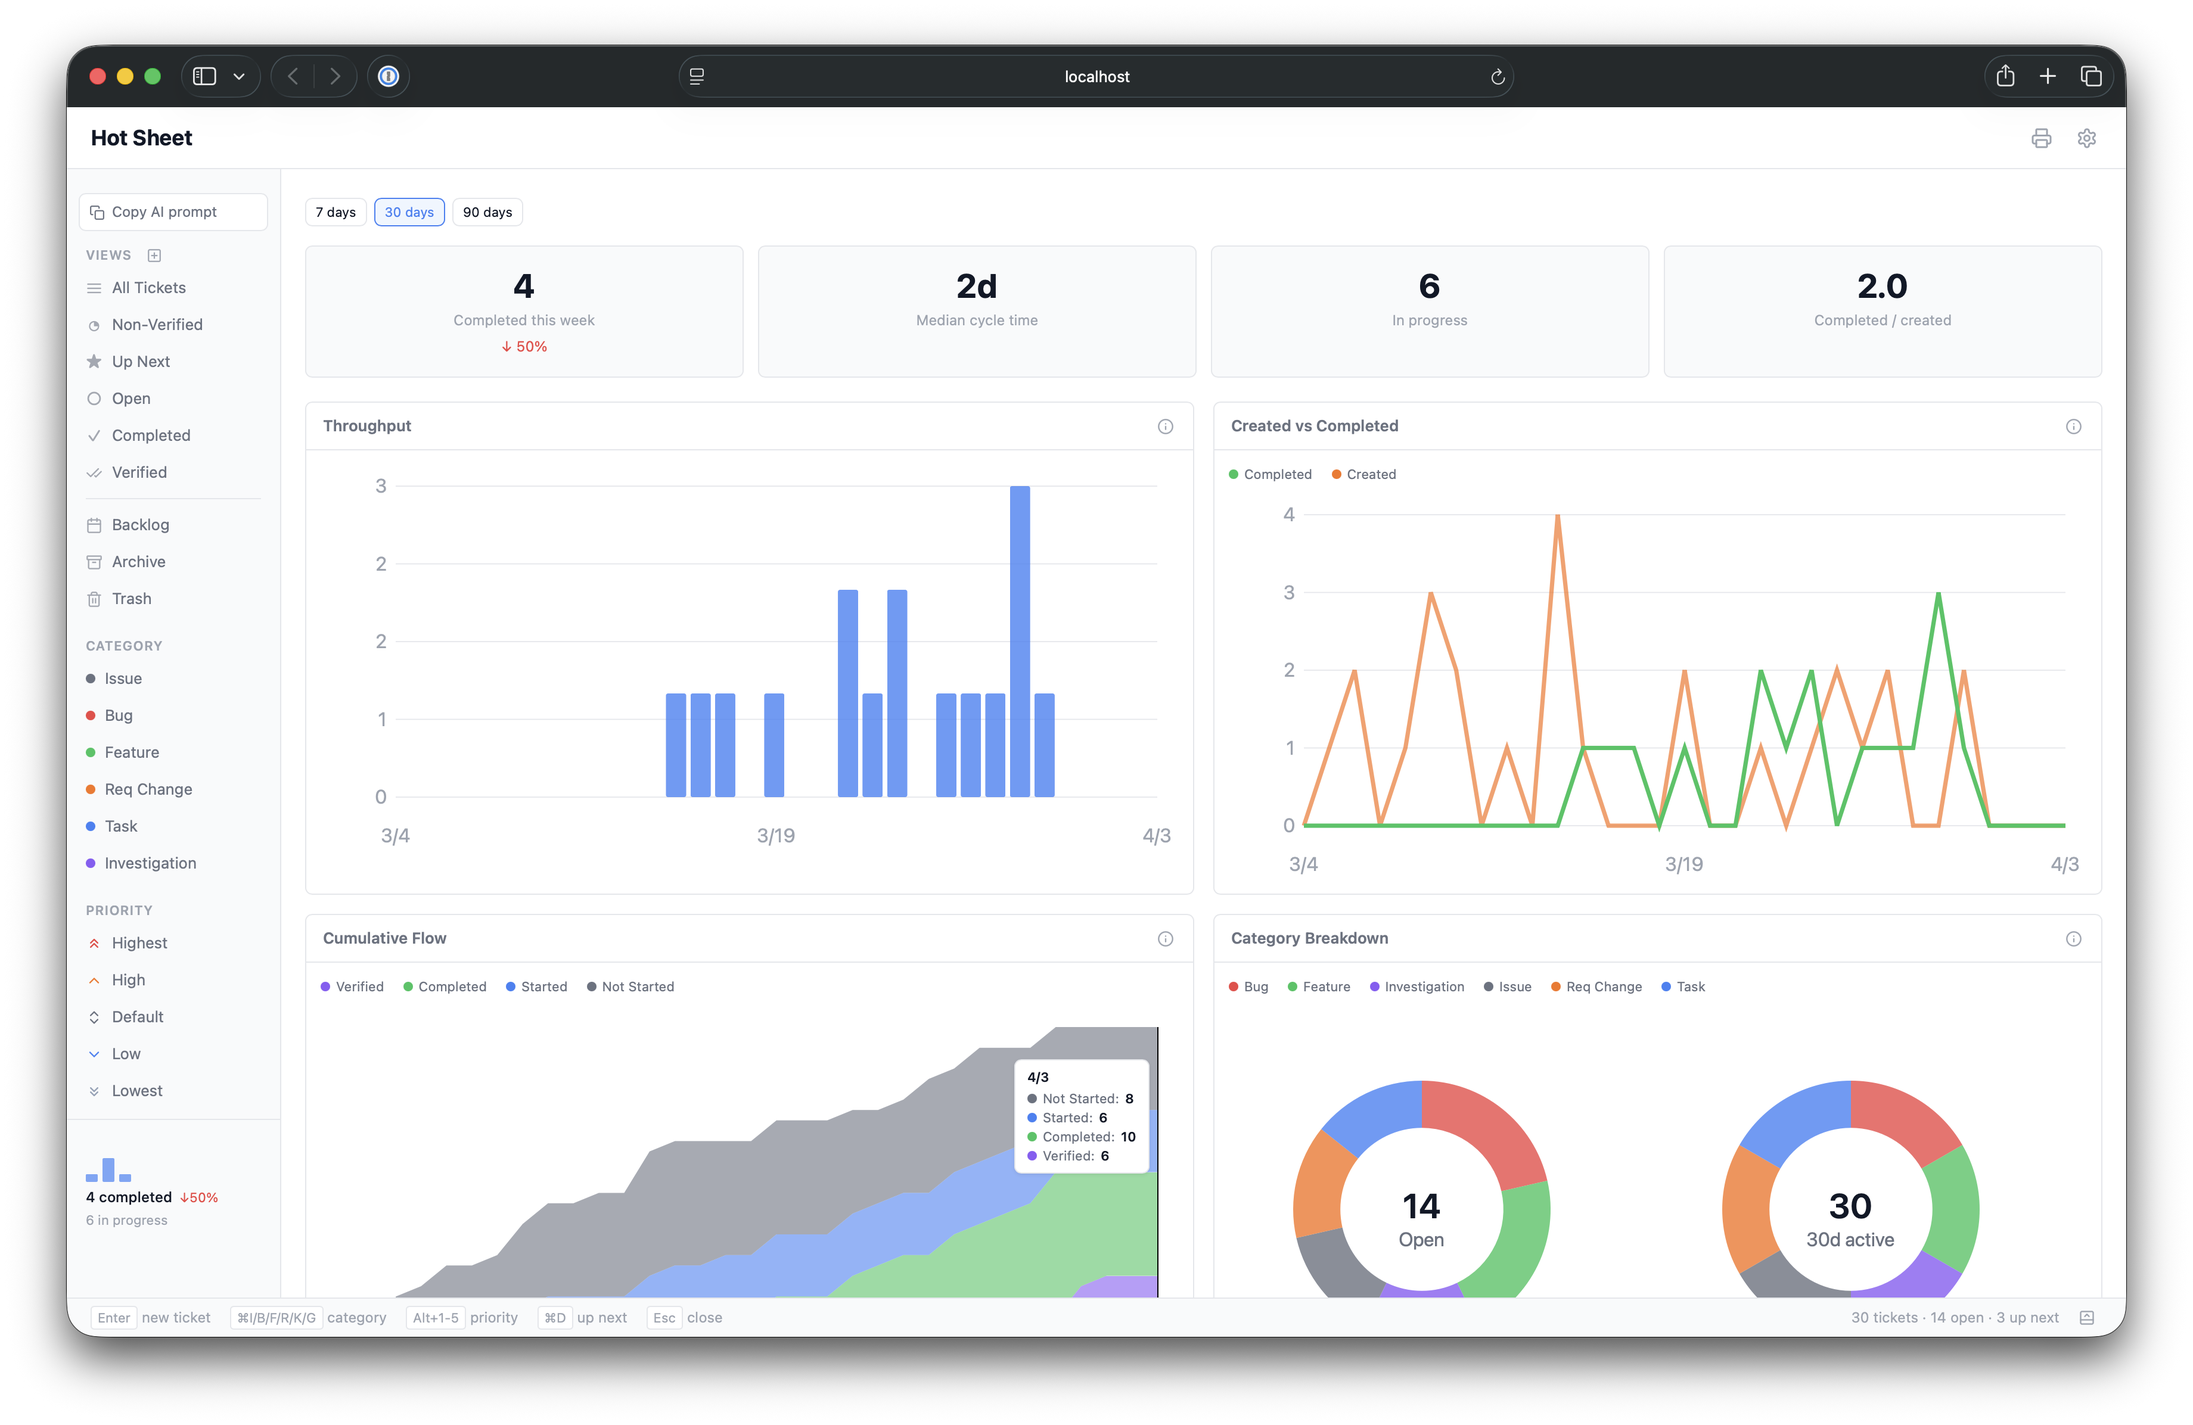
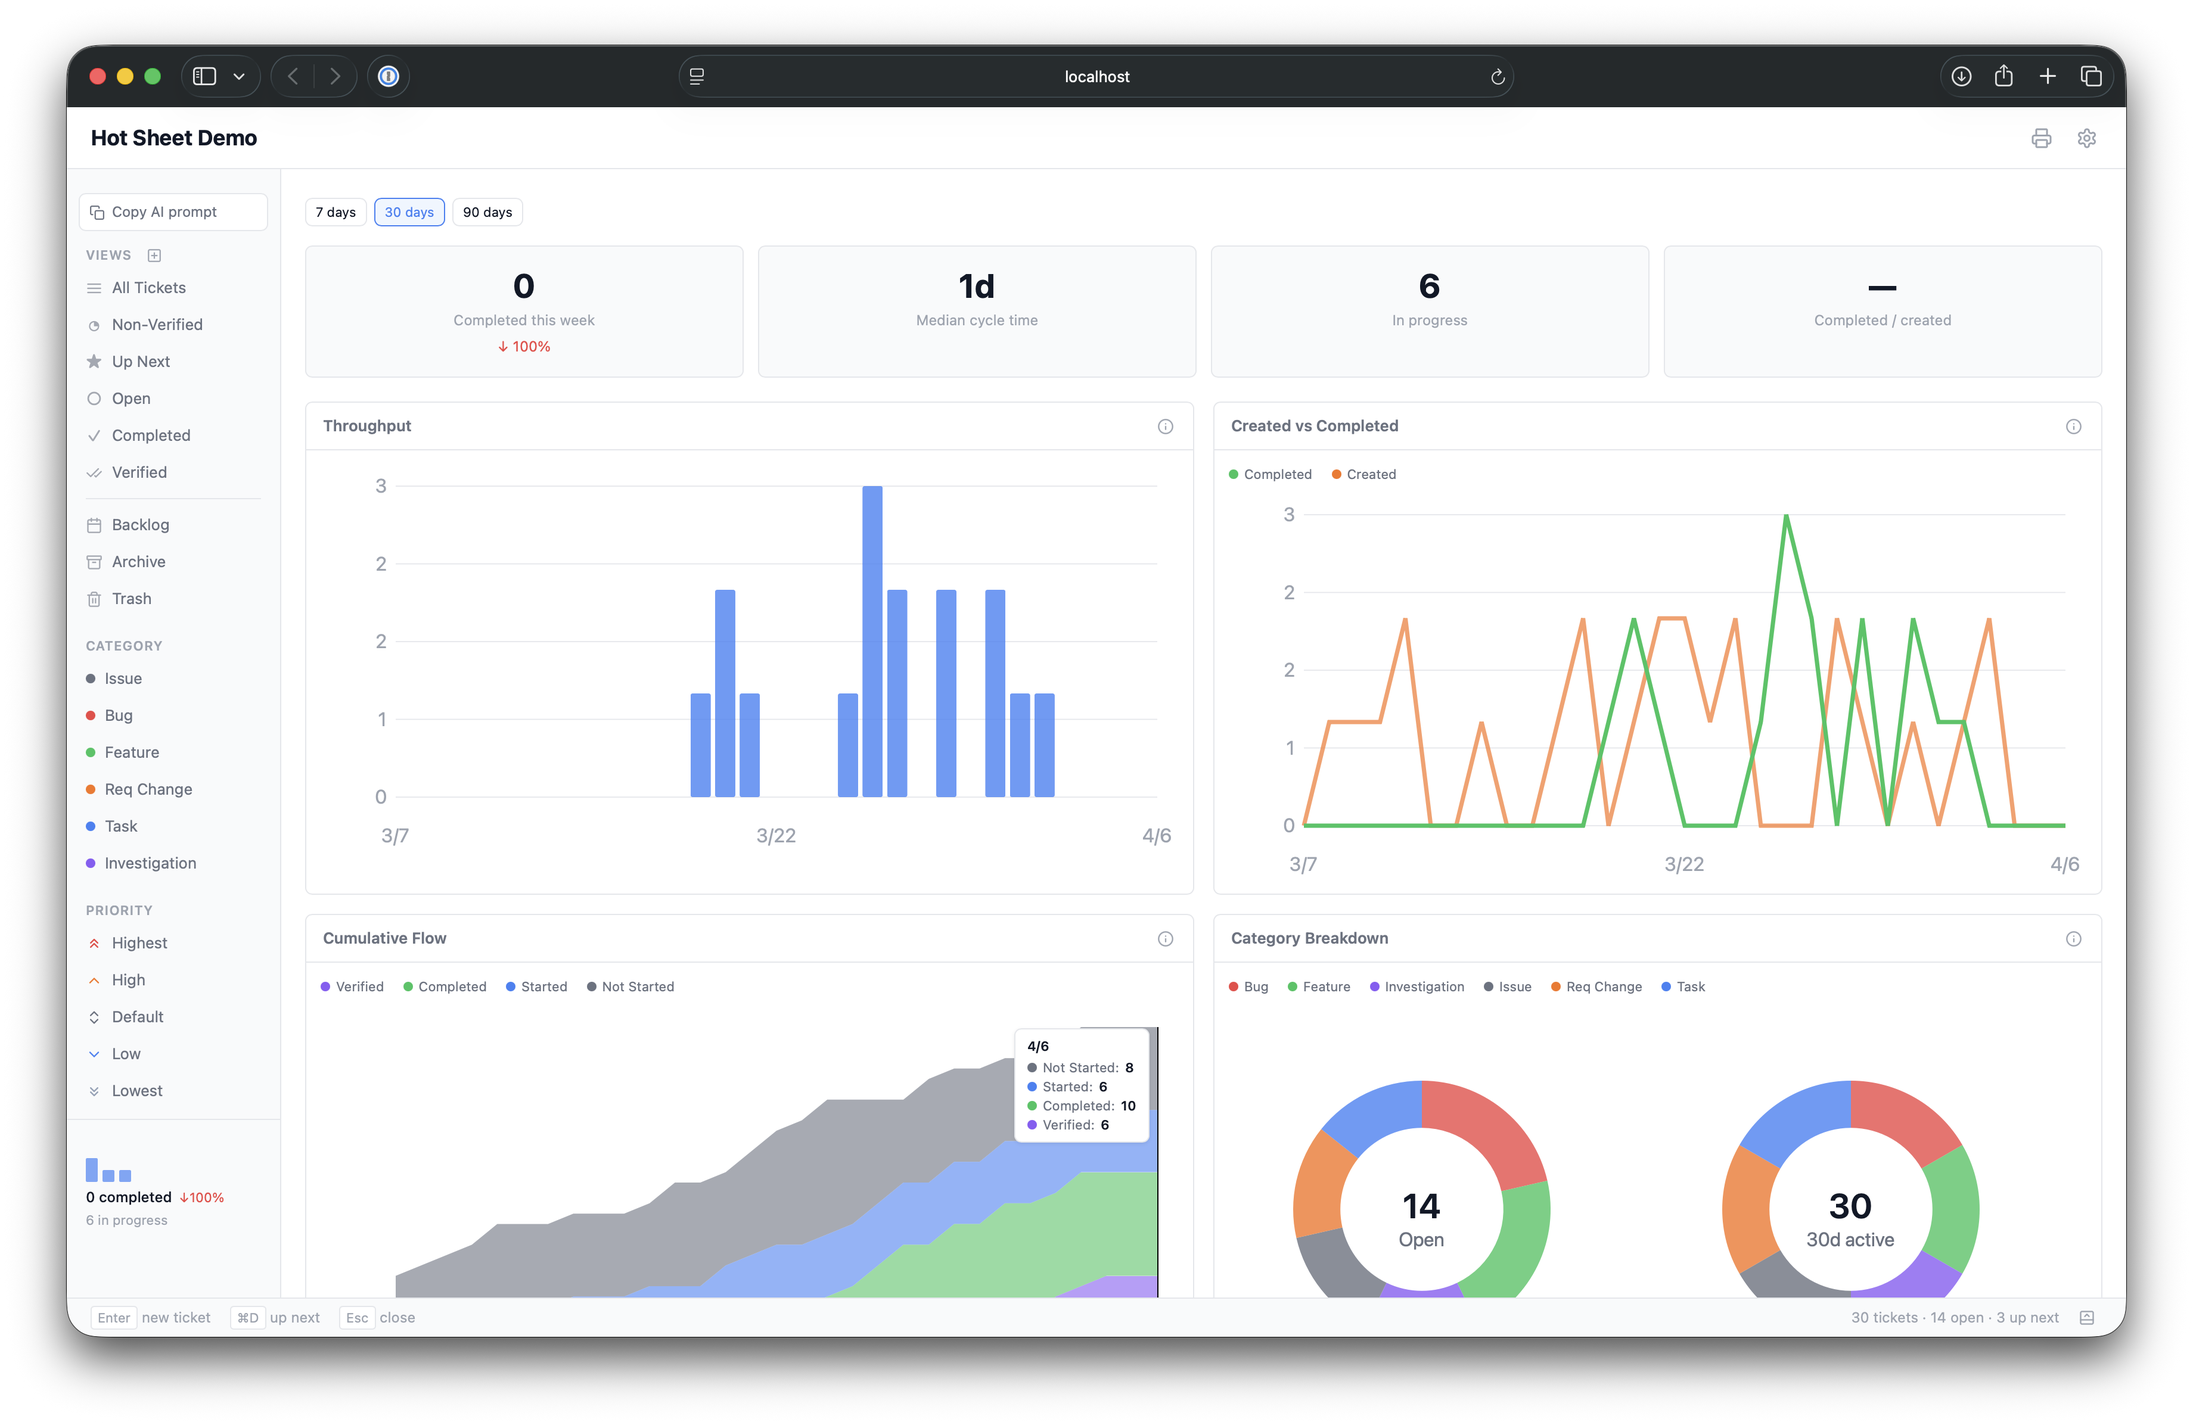
README update, multi-project tabs demo, clean demo names, and refreshed screenshots
README: add multi-project tabs as a featured section with screenshot, add custom ticket prefix and tag views to features list, add tab/settings/open-folder keyboard shortcuts, add ticketPrefix to settings table, fix architecture build description, remove stale Experimental tab visibility claim.

Demos: set appName to "Hot Sheet Demo" for clean title display instead of temp dir path. Add scenario 10 (multi-project tabs) which registers two additional projects ("Mobile App" and "API Platform") with independent ticket data. Refresh all 10 screenshots.

diff --git a/src/demo.ts b/src/demo.ts
@@ -17,6 +17,7 @@ export const DEMO_SCENARIOS: DemoScenario[] = [
   { id: 7, label: 'Column view — kanban board by status' },
   { id: 8, label: 'Dashboard — stats and charts' },
   { id: 9, label: 'Claude Channel — AI integration with custom commands' },
+  { id: 10, label: 'Multi-project tabs — multiple projects in one window' },
 ];
 
 // --- Ticket data model ---
@@ -617,6 +618,7 @@ const SCENARIO_DATA: Record<number, DemoTicket[]> = {
   7: SCENARIO_7,
   8: SCENARIO_8,
   9: SCENARIO_9,
+  10: SCENARIO_1, // Primary project uses hero data; extra projects added by seedDemoExtraProjects
 };
 
 // --- Custom views for scenario 3 ---
@@ -701,4 +703,86 @@ export async function seedDemoData(scenario: number): Promise<void> {
     await db.query(`INSERT INTO settings (key, value) VALUES ('custom_commands', $1) ON CONFLICT (key) DO UPDATE SET value = $1`,
       [JSON.stringify(SCENARIO_9_COMMANDS)]);
   }
+}
+
+// --- Scenario 10: Multi-project tabs — extra projects ---
+
+interface ExtraProject {
+  appName: string;
+  tickets: DemoTicket[];
+}
+
+const EXTRA_PROJECTS: ExtraProject[] = [
+  {
+    appName: 'Mobile App',
+    tickets: [
+      { title: 'Push notification deep links not opening correct screen', details: 'Tapping a push notification for an order update opens the home screen instead of the order detail. Affects both iOS and Android.', category: 'bug', priority: 'highest', status: 'started', up_next: true, tags: ['notifications'], notes: notesJson([{ text: 'Confirmed the intent URI is malformed on Android. iOS works for some notification types but not order updates.', days_ago: 0.5 }]), days_ago: 3, updated_ago: 0.5 },
+      { title: 'Add biometric login (Face ID / fingerprint)', details: 'Allow users to authenticate with biometrics after initial login. Store a refresh token in the secure keychain.', category: 'feature', priority: 'high', status: 'not_started', up_next: true, tags: ['auth', 'security'], notes: '', days_ago: 5, updated_ago: 5 },
+      { title: 'Offline mode for product catalog', details: 'Cache the product catalog locally so users can browse without network. Sync changes when connection is restored.', category: 'feature', priority: 'default', status: 'not_started', up_next: false, tags: ['offline', 'sync'], notes: '', days_ago: 7, updated_ago: 7 },
+      { title: 'App crashes on low-memory devices during checkout', details: 'Reports from Android users with 2GB RAM that the app crashes when loading the payment form. Need to profile memory usage.', category: 'bug', priority: 'high', status: 'not_started', up_next: true, tags: ['android', 'performance'], notes: '', days_ago: 2, updated_ago: 2 },
+      { title: 'Update to React Native 0.76', details: 'New architecture is now stable. Update from 0.73 and enable the new renderer. Run full regression test suite after.', category: 'task', priority: 'default', status: 'completed', up_next: false, tags: ['dependencies'], notes: notesJson([{ text: 'Updated and all tests passing. New renderer is 15% faster on list scrolling benchmarks.', days_ago: 1 }]), days_ago: 10, updated_ago: 1, completed_ago: 1 },
+    ],
+  },
+  {
+    appName: 'API Platform',
+    tickets: [
+      { title: 'Rate limiter returning 429 for authenticated internal calls', details: 'Internal service-to-service calls using API keys are being rate limited. They should bypass the public rate limit.', category: 'bug', priority: 'highest', status: 'started', up_next: true, tags: ['rate-limiting', 'internal'], notes: notesJson([{ text: 'The rate limiter key includes the IP but not the API key type. Internal keys need a separate bucket with higher limits.', days_ago: 0.2 }]), days_ago: 1, updated_ago: 0.2 },
+      { title: 'Add GraphQL subscriptions for real-time updates', details: 'Implement WebSocket-based GraphQL subscriptions for order status changes and inventory updates.', category: 'feature', priority: 'high', status: 'not_started', up_next: true, tags: ['graphql', 'websocket'], notes: '', days_ago: 6, updated_ago: 6 },
+      { title: 'Migrate to OpenAPI 3.1 spec', details: 'Current spec is OpenAPI 3.0. Upgrade to 3.1 for JSON Schema compatibility and webhook support.', category: 'task', priority: 'default', status: 'not_started', up_next: false, tags: ['api-docs'], notes: '', days_ago: 8, updated_ago: 8 },
+      { title: 'Investigate P99 latency spike on /orders endpoint', details: 'P99 jumped from 200ms to 1.2s after last deploy. No obvious code changes. Check connection pool and query plans.', category: 'investigation', priority: 'high', status: 'completed', up_next: false, tags: ['performance', 'database'], notes: notesJson([{ text: 'Found it — the connection pool was exhausted due to a missing connection release in the new middleware. Hotfix deployed.', days_ago: 0.5 }]), days_ago: 2, updated_ago: 0.5, completed_ago: 0.5 },
+    ],
+  },
+];
+
+/**
+ * For multi-project demo scenarios, create and register additional projects.
+ * Called from cli.ts after the server is running.
+ */
+export async function seedDemoExtraProjects(scenario: number, primaryDataDir: string, port: number): Promise<void> {
+  if (scenario !== 10) return;
+
+  const fs = await import('fs');
+  const path = await import('path');
+  const { registerProject } = await import('./projects.js');
+  const { writeFileSettings } = await import('./file-settings.js');
+  const { setDataDir: setDir, getDb: getDatabase } = await import('./db/connection.js');
+
+  const baseDir = path.dirname(primaryDataDir);
+
+  for (const extra of EXTRA_PROJECTS) {
+    const extraDataDir = path.join(baseDir, `hotsheet-demo-${extra.appName.toLowerCase().replace(/\s+/g, '-')}`);
+    fs.mkdirSync(extraDataDir, { recursive: true });
+
+    // Initialize DB for this project
+    setDir(extraDataDir);
+    const db = await getDatabase();
+
+    // Seed tickets
+    for (let i = 0; i < extra.tickets.length; i++) {
+      const t = extra.tickets[i];
+      const ticketNumber = `HS-${i + 1}`;
+      const createdAt = daysAgo(t.days_ago);
+      const updatedAt = daysAgo(t.updated_ago);
+      const completedAt = t.completed_ago !== undefined ? daysAgo(t.completed_ago) : null;
+      const verifiedAt = t.verified_ago !== undefined ? daysAgo(t.verified_ago) : null;
+      const tags = JSON.stringify(t.tags);
+
+      await db.query(`
+        INSERT INTO tickets (ticket_number, title, details, category, priority, status, up_next, notes, tags, created_at, updated_at, completed_at, verified_at)
+        VALUES ($1, $2, $3, $4, $5, $6, $7, $8, $9, $10::timestamp, $11::timestamp, $12::timestamp, $13::timestamp)
+      `, [ticketNumber, t.title, t.details, t.category, t.priority, t.status, t.up_next, t.notes, tags, createdAt, updatedAt, completedAt, verifiedAt]);
+    }
+    await db.query(`SELECT setval('ticket_seq', $1)`, [extra.tickets.length]);
+
+    // Set app name
+    writeFileSettings(extraDataDir, { appName: extra.appName });
+
+    // Register with the running server
+    // Reset dataDir to primary so registerProject can work correctly
+    setDir(primaryDataDir);
+    await registerProject(extraDataDir, port);
+  }
+
+  // Restore primary dataDir context
+  setDir(primaryDataDir);
 }

diff --git a/src/cli.ts b/src/cli.ts
@@ -9,7 +9,7 @@ import { cleanupAttachments } from './cleanup.js';
 import { getDb, setDataDir } from './db/connection.js';
 import { getCategories } from './db/queries.js';
 import { DEMO_SCENARIOS, seedDemoData } from './demo.js';
-import { ensureSecret } from './file-settings.js';
+import { ensureSecret, writeFileSettings } from './file-settings.js';
 import { ensureGitignore } from './gitignore.js';
 import { isInstanceRunning, readInstanceFile, removeInstanceFile, writeInstanceFile } from './instance.js';
 import { acquireLock } from './lock.js';
@@ -401,7 +401,7 @@ async function main() {
       }
       process.exit(1);
     }
-    dataDir = join(tmpdir(), `hotsheet-demo-${demo}-${Date.now()}`);
+    dataDir = join(tmpdir(), `hotsheet-demo-${Date.now()}`);
     console.log(`\n  DEMO MODE: ${scenario.label}\n`);
   }
 
@@ -435,9 +435,18 @@ async function main() {
   }
 
   const db = await initializeProject(dataDir, demo);
+  if (demo !== null) {
+    writeFileSettings(dataDir, { appName: 'Hot Sheet Demo' });
+  }
   const { actualPort, secret } = await startAndConfigure(port, dataDir, strictPort);
   registerExistingProject(dataDir, secret, db);
   await postStartup(dataDir, actualPort, demo, noOpen);
+
+  // Multi-project demo: register additional projects after server is running
+  if (demo !== null) {
+    const { seedDemoExtraProjects } = await import('./demo.js');
+    await seedDemoExtraProjects(demo, dataDir, actualPort);
+  }
 }
 
 main().catch((err: unknown) => {

diff --git a/README.md b/README.md
@@ -104,12 +104,19 @@ The loop stays tight because the AI always knows what to work on next.
   <img src="docs/demo-8.png" alt="Stats dashboard showing throughput, flow, and cycle time charts" width="900">
 </p>
 
+**Multi-project tabs** — open multiple projects in a single window. Tabs appear automatically when you register a second project via the Open Folder dialog (`Cmd+O`). Drag tabs to reorder, right-click for close options and "Show in Finder," and switch with `Cmd+Shift+[/]`. Each project has independent settings, sort preferences, and views.
+
+<p align="center">
+  <img src="docs/demo-10.png" alt="Multiple project tabs showing independent ticket lists with tab context menu" width="900">
+</p>
+
 **Also includes:**
 - **Tags** — free-form tags on tickets, with autocomplete and a batch tag dialog for multi-select
-- **Custom views** — create filtered views with an interactive query builder (field + operator + value conditions, AND/OR logic)
+- **Custom views** — create filtered views with an interactive query builder (field + operator + value conditions, AND/OR logic). Associate a tag with a view to enable drag-and-drop tagging and auto-tag on create.
+- **Custom ticket prefix** — change the default `HS-` prefix to any project-specific prefix in Settings
 - **Five priority levels** — Highest to Lowest, with Lucide chevron icons, sortable and filterable
 - **Up Next flag** — star tickets to add them to the AI worklist
-- **Drag and drop** — drag tickets onto sidebar views to change category, priority, or status; drop files onto the detail panel to attach; reorder custom views
+- **Drag and drop** — drag tickets onto sidebar views to change category, priority, or status; drop files onto the detail panel to attach; reorder project tabs and custom views
 - **Right-click context menus** — full context menu on tickets with category/priority/status submenus, tags, duplicate, backlog, archive, delete — all with Lucide icons
 - **Search** — full-text search across ticket titles, details, and ticket numbers
 - **Print** — print the dashboard, all tickets, selected tickets, or individual tickets in checklist, summary, or full-detail format
@@ -154,7 +161,7 @@ Hot Sheet automatically generates skill files for Claude Code (as well as Cursor
 
 ### Claude Channel Integration (Experimental)
 
-Hot Sheet can push events directly to a running Claude Code session via MCP channels. Enable it in Settings → Experimental (the tab only appears when Claude Code is detected on your system):
+Hot Sheet can push events directly to a running Claude Code session via MCP channels. Enable it in Settings → Experimental:
 
 - **Play button** — appears in the sidebar. Single-click sends the worklist to Claude on demand.
 - **Auto mode** — double-click the play button to enable automatic mode. When you star a ticket for Up Next, Claude is notified after a 5-second debounce and picks up the work automatically. Exponential backoff prevents runaway retries.
@@ -316,8 +323,9 @@ Create `.hotsheet/settings.json` to configure per-project options:
 
 | Key | Description |
 |-----|-------------|
-| `appName` | Custom window title (defaults to the project folder name) |
+| `appName` | Custom window title and tab name (defaults to the project folder name) |
 | `backupDir` | Backup storage path (defaults to `.hotsheet/backups/`) |
+| `ticketPrefix` | Custom ticket number prefix (defaults to `HS`) |
 | `appIcon` | Icon variant (`default`, `variant-1` through `variant-9`) |
 
 All settings can also be changed from the settings panel UI.
@@ -338,6 +346,10 @@ All settings can also be changed from the settings panel UI.
 | `Cmd+P` | Print |
 | `Cmd+F` | Focus search |
 | `Cmd+N` / `N` | Focus new ticket input |
+| `Cmd+O` | Open folder (add project) |
+| `Cmd+,` | Settings |
+| `Cmd+Shift+[` / `]` | Switch project tab |
+| `Cmd+Alt+W` | Close active tab |
 | `Escape` | Blur field / clear selection / close |
 
 ---
@@ -352,7 +364,7 @@ All settings can also be changed from the settings panel UI.
 | Database | PGLite (embedded PostgreSQL) |
 | UI | Custom server-side JSX (no React), vanilla client JS |
 | Charts | Inline SVG (no external chart library) |
-| Build | tsup (single-file bundle) |
+| Build | tsup (server + client bundles), sass (SCSS → CSS) |
 | Storage | `.hotsheet/` in your project directory |
 
 Data stays local. No network calls, no accounts, no telemetry.

diff --git a/docs/8-cli-server.md b/docs/8-cli-server.md
@@ -82,10 +82,11 @@ Project tabs are persisted to `~/.hotsheet/projects.json` and restored on restar
 
 ### 8.8 Demo Mode
 
-Demo mode launches the application with pre-populated sample data, intended for screenshots, demonstrations, and feature exploration. Invoked via `--demo:<N>` where N is a scenario number (1–9).
+Demo mode launches the application with pre-populated sample data, intended for screenshots, demonstrations, and feature exploration. Invoked via `--demo:<N>` where N is a scenario number (1–10).
 
 #### Behavior
 - Creates a temporary, isolated data directory in the OS temp folder (not inside the project).
+- Sets `appName` to "Hot Sheet Demo" for a clean title/tab display.
 - Skips lock file checks (no risk of collision).
 - Skips gitignore checks (temp directory is outside any repo).
 - Seeds the database with scenario-specific ticket data on startup.
@@ -106,10 +107,12 @@ Each scenario uses realistic e-commerce project data with a mix of categories, p
 | 7 | Column View | Tickets spread across statuses — layout pre-set to column/kanban view |
 | 8 | Dashboard | Stats and charts |
 | 9 | Claude Channel | AI integration with custom commands |
+| 10 | Multi-Project Tabs | Multiple projects in one window — registers additional projects with independent ticket data |
 
 #### Scenario-Specific Settings
 - Scenario 6 sets `detail_position` to `bottom` and `detail_height` to `280`.
 - Scenario 7 sets `layout` to `columns`.
+- Scenario 10 creates and registers two additional projects ("Mobile App" and "API Platform") with their own ticket data, demonstrating the tabbed multi-project interface.
 
 #### Demo Data Characteristics
 - Tickets have realistic titles, detailed descriptions, and timestamped notes showing work progress.
